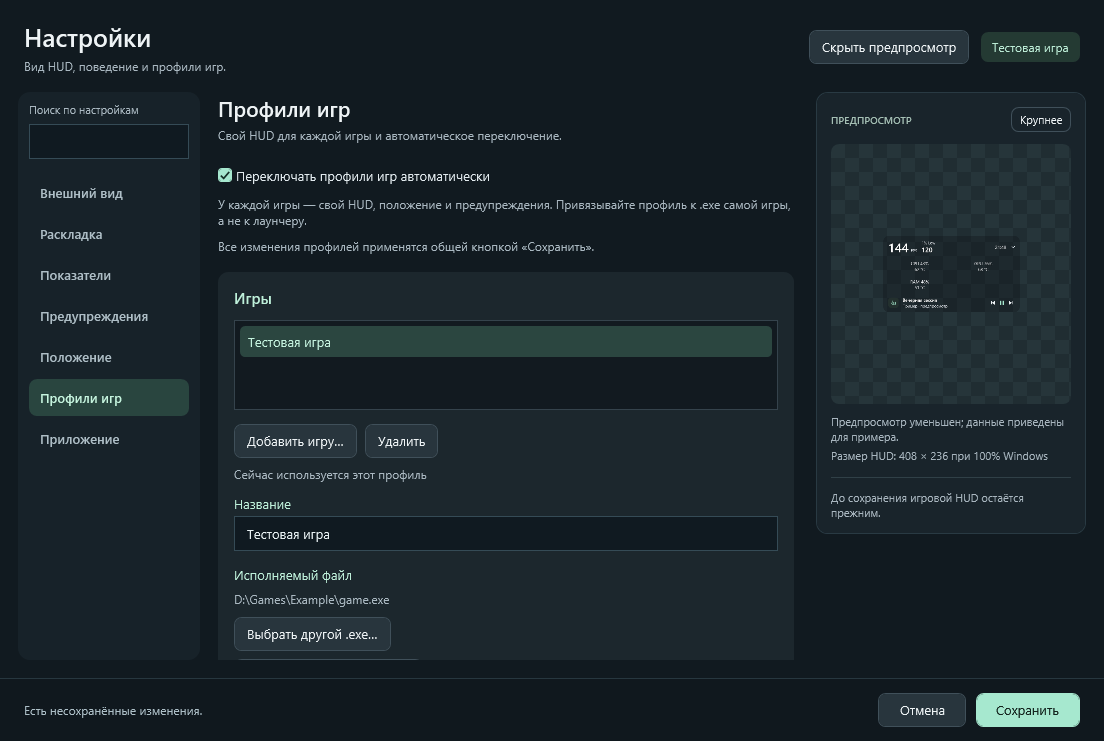
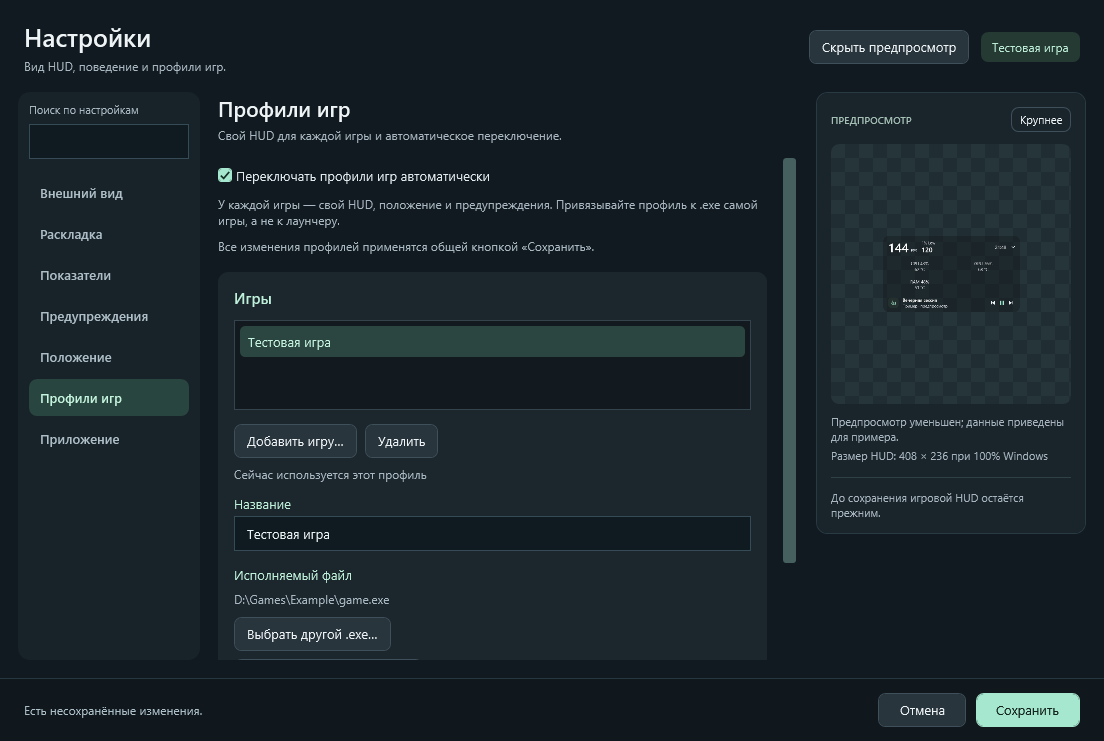
Fix scrolling in dynamic settings sections (v0.14.1)
Give new sections a shared scroll host and route mouse-wheel input to the page without changing slider or closed monitor-picker values. Preserve nested list scrolling with boundary fallback; cover all seven pages and future sections with routed-input regressions.

Changed region(s): [[0.6775, 0.2173, 0.7391, 0.776], [0.1848, 0.2794, 0.308, 0.3104]]

diff --git a/tests/SettingsNavigationUiChecks/Program.cs b/tests/SettingsNavigationUiChecks/Program.cs
@@ -145,8 +145,148 @@ internal static class Program
         finally { editor.Close(); }
 
         await VerifyExtensions();
+        await VerifyScrollRouting(context, widgets);
         Check(SamePreferences(preferences, RealPreferences()), "Every actual user preference file stays byte-identical");
     }
+
+    private static async Task VerifyScrollRouting(SettingsEditorContext context, ComponentSettings widgets)
+    {
+        var appearance = AppearanceSettings.Default with { Alerts = AlertSettings.Default with { Enabled = true } };
+        var editor = new HudEditorWindow(appearance, widgets, "Тестовая игра", MainWindow.RenderHudPreview, context);
+        try
+        {
+            Prepare(editor); editor.Width = 800; editor.Height = 420; editor.Show(); await Settle();
+            string before = DraftSnapshot(editor);
+            var cases = new[] { ("appearance", "SpacingSlider"), ("layout", "ResetLayoutButton"),
+                ("components", "BatteryCheckBox"), ("alerts", "StutterCountSlider"),
+                ("placement", "PlacementLockCheckBox"), ("profiles", "CopyProfileButton"), ("application", "SettingsVersionText") };
+            foreach (var (section, bottomName) in cases)
+            {
+                editor.SelectSection(section); await Settle();
+                var scroll = PageScroll(editor);
+                Check(scroll.ScrollableHeight > 0, "Short-window page has a scrollable viewport: " + section);
+                scroll.ScrollToTop(); await Settle();
+                Wheel((UIElement)scroll.Content, -120); await Settle();
+                Check(scroll.VerticalOffset > 0, "A routed wheel event moves the page: " + section);
+                await WheelToEnd(scroll);
+                var bottom = (FrameworkElement)(editor.FindSettingsControl(bottomName) ?? throw new InvalidOperationException("Missing bottom control " + bottomName));
+                InViewport(bottom, scroll, "Wheel scrolling reaches the last control: " + section);
+                if (section is "placement" or "profiles" or "application") Save(editor, "settings-" + section + "-short-bottom.png");
+            }
+            Check(DraftSnapshot(editor) == before, "Scrolling all seven sections does not alter any preference draft");
+
+            editor.SelectSection("appearance"); await Settle();
+            var appearanceScroll = PageScroll(editor);
+            var scale = Named<Slider>(editor, "ScaleSlider"); scale.BringIntoView(); await Settle();
+            double scaleBefore = scale.Value, offsetBefore = appearanceScroll.VerticalOffset;
+            Wheel(scale, -120); await Settle();
+            Check(scale.Value == scaleBefore && appearanceScroll.VerticalOffset > offsetBefore,
+                "Wheel over a HUD scale slider scrolls the page without changing the scale");
+
+            editor.SelectSection("placement"); await Settle();
+            var positionScroll = PageScroll(editor); positionScroll.ScrollToTop(); await Settle();
+            var monitor = (ComboBox)editor.FindSettingsControl("PlacementMonitorCombo")!;
+            object? monitorBefore = monitor.SelectedItem;
+            Wheel(monitor, -120); await Settle();
+            Check(ReferenceEquals(monitor.SelectedItem, monitorBefore) && positionScroll.VerticalOffset > 0,
+                "Wheel over a closed monitor picker scrolls the page without switching displays");
+
+            editor.SelectSection("profiles"); await Settle();
+            var profilesScroll = PageScroll(editor); profilesScroll.ScrollToTop(); await Settle();
+            var profileList = (ListBox)editor.FindSettingsControl("SettingsProfileList")!;
+            var inner = VisualScroll(profileList) ?? throw new InvalidOperationException("Profile list viewport is missing.");
+            Check(inner.ScrollableHeight == 0, "The one-profile list has no inner scroll range");
+            Wheel(WheelContent(inner), -120); await Settle();
+            Check(profilesScroll.VerticalOffset > 0, "Wheel over a short profile list falls through to the outer page");
+
+            FrameworkElement? last = null;
+            editor.RegisterSection(new SettingsSectionDefinition("long-scroll-fixture", "Длинный раздел", "", "", () =>
+            {
+                var panel = new StackPanel();
+                for (int index = 0; index < 40; index++) panel.Children.Add(last = new TextBlock { Text = "Строка " + index, Height = 28 });
+                return panel;
+            }));
+            editor.SelectSection("long-scroll-fixture"); await Settle();
+            var extensionScroll = PageScroll(editor);
+            Check(extensionScroll.ScrollableHeight > 0, "A registered raw page receives the same scroll host automatically");
+            await WheelToEnd(extensionScroll);
+            InViewport(last!, extensionScroll, "Wheel scrolling reaches the bottom of a lazy extension page");
+            Check(DraftSnapshot(editor) == before, "Wheel routing leaves slider, monitor, profile and startup settings unchanged");
+        }
+        finally { editor.Close(); }
+
+        var manyProfiles = new GameProfileSettings(true, Enumerable.Range(0, 40).Select(index => new GameProfile(
+            Guid.NewGuid().ToString("D"), "Игра " + index, @"D:\Games\Example\game" + index + ".exe", HudProfileSettings.Default)).ToArray());
+        var longContext = context with { Profiles = manyProfiles, ActiveProfileId = null };
+        var nestedEditor = new HudEditorWindow(appearance, widgets, "Общий HUD", MainWindow.RenderHudPreview, longContext);
+        try
+        {
+            Prepare(nestedEditor); nestedEditor.Width = 800; nestedEditor.Height = 420; nestedEditor.Show();
+            nestedEditor.SelectSection("profiles"); await Settle();
+            string before = DraftSnapshot(nestedEditor);
+            var outer = PageScroll(nestedEditor);
+            var list = (ListBox)nestedEditor.FindSettingsControl("SettingsProfileList")!;
+            var inner = VisualScroll(list) ?? throw new InvalidOperationException("Long profile list viewport is missing.");
+            Check(inner.ScrollableHeight > 0, "A long profile list has its own scroll range");
+            outer.ScrollToTop(); inner.ScrollToTop(); await Settle();
+            double outerBefore = outer.VerticalOffset;
+            Wheel(WheelContent(inner), -120); await Settle();
+            Check(inner.VerticalOffset > 0 && outer.VerticalOffset == outerBefore,
+                "An inner list consumes the wheel while it has room in that direction");
+            inner.ScrollToEnd(); outer.ScrollToTop(); await Settle();
+            Wheel(WheelContent(inner), -120); await Settle();
+            Check(outer.VerticalOffset > 0 && Math.Abs(inner.VerticalOffset - inner.ScrollableHeight) < .1,
+                "At the inner list bottom, downward wheel moves the outer page");
+            inner.ScrollToTop(); outer.ScrollToEnd(); await Settle();
+            outerBefore = outer.VerticalOffset;
+            Wheel(WheelContent(inner), 120); await Settle();
+            Check(inner.VerticalOffset == 0 && outer.VerticalOffset < outerBefore,
+                "At the inner list top, upward wheel moves the outer page");
+            Check(DraftSnapshot(nestedEditor) == before, "Nested wheel routing never changes the selected profile or its settings");
+        }
+        finally { nestedEditor.Close(); }
+    }
+
+    private static ScrollViewer PageScroll(HudEditorWindow editor)
+        => ((TabItem)Named<TabControl>(editor, "EditorTabs").SelectedItem).Content as ScrollViewer
+           ?? throw new InvalidOperationException("Selected page has no outer ScrollViewer: " + editor.SelectedSectionId);
+    private static ScrollViewer? VisualScroll(DependencyObject root)
+    {
+        if (root is ScrollViewer scroll) return scroll;
+        for (int index = 0; index < VisualTreeHelper.GetChildrenCount(root); index++)
+            if (VisualScroll(VisualTreeHelper.GetChild(root, index)) is { } found) return found;
+        return null;
+    }
+    private static UIElement WheelContent(ScrollViewer scroll)
+        => VisualDescendant<System.Windows.Controls.ScrollContentPresenter>(scroll) ?? (UIElement)scroll.Content;
+    private static T? VisualDescendant<T>(DependencyObject root) where T : DependencyObject
+    {
+        if (root is T match) return match;
+        for (int index = 0; index < VisualTreeHelper.GetChildrenCount(root); index++)
+            if (VisualDescendant<T>(VisualTreeHelper.GetChild(root, index)) is { } found) return found;
+        return null;
+    }
+    private static void Wheel(UIElement target, int delta)
+    {
+        var preview = new MouseWheelEventArgs(Mouse.PrimaryDevice, Environment.TickCount, delta) { RoutedEvent = Mouse.PreviewMouseWheelEvent };
+        target.RaiseEvent(preview);
+        if (!preview.Handled) target.RaiseEvent(new MouseWheelEventArgs(Mouse.PrimaryDevice, Environment.TickCount, delta) { RoutedEvent = Mouse.MouseWheelEvent });
+    }
+    private static async Task WheelToEnd(ScrollViewer scroll)
+    {
+        for (int batch = 0; batch < 30 && scroll.VerticalOffset < scroll.ScrollableHeight - .1; batch++)
+        {
+            for (int notch = 0; notch < 5; notch++) Wheel((UIElement)scroll.Content, -120);
+            await Settle();
+        }
+        Check(Math.Abs(scroll.VerticalOffset - scroll.ScrollableHeight) < .1, "Routed wheel reaches the page's actual bottom");
+    }
+    private static void InViewport(FrameworkElement element, ScrollViewer scroll, string message)
+    {
+        var bounds = element.TransformToAncestor(scroll).TransformBounds(new Rect(element.RenderSize));
+        Check(element.IsVisible && element.ActualHeight > 0 && bounds.Top >= -1 && bounds.Bottom <= scroll.ActualHeight + 1, message);
+    }
+    private static string DraftSnapshot(HudEditorWindow editor) => JsonSerializer.Serialize(new { editor.DraftAppearance, editor.DraftComponents, editor.DraftApplication });
 
     private static async Task VerifyExtensions()
     {

diff --git a/src/Luma.Island/HudEditorWindow.xaml.cs b/src/Luma.Island/HudEditorWindow.xaml.cs
@@ -26,6 +26,7 @@ public partial class HudEditorWindow : Window
     private readonly SettingsSectionRegistry _sections = new();
     private readonly ObservableCollection<SettingsSectionDefinition> _filteredSections = new();
     private readonly Dictionary<string, TabItem> _sectionTabs = new(StringComparer.OrdinalIgnoreCase);
+    private readonly HashSet<ScrollViewer> _sectionScrollHosts = new();
     private readonly SettingsApplicationPages? _applicationPages;
     private readonly SettingsEditorContext? _context;
     private readonly AppearanceSettings _initialAppearance;
@@ -414,7 +415,18 @@ public partial class HudEditorWindow : Window
         {
             var content = section.GetContent();
             TabItem tab = _sectionTabs[section.Id];
-            if (tab.Content is null) tab.Content = content;
+            if (tab.Content is null)
+                tab.Content = content is ScrollViewer ? content : new ScrollViewer
+                {
+                    Content = content,
+                    VerticalScrollBarVisibility = ScrollBarVisibility.Auto,
+                    HorizontalScrollBarVisibility = ScrollBarVisibility.Disabled,
+                    CanContentScroll = false,
+                    PanningMode = PanningMode.VerticalOnly,
+                    Padding = new Thickness(0, 0, 10, 0)
+                };
+            if (tab.Content is ScrollViewer scroll && _sectionScrollHosts.Add(scroll))
+                scroll.PreviewMouseWheel += OnSectionMouseWheel;
             _selectingNavigation = true;
             if (!_filteredSections.Contains(section)) { SettingsSearchBox.Text = string.Empty; ApplySearch(); }
             EditorTabs.SelectedItem = tab;
@@ -435,6 +447,29 @@ public partial class HudEditorWindow : Window
         }
         finally { _selectingNavigation = wasSelecting; }
     }
+
+    private void OnSectionMouseWheel(object sender, MouseWheelEventArgs e)
+    {
+        if (sender is not ScrollViewer outer || outer.ScrollableHeight <= 0 || e.Delta == 0) return;
+        for (DependencyObject? node = e.OriginalSource as DependencyObject; node is not null && node != outer; node = ScrollParent(node))
+        {
+            if (node is ComboBox { IsDropDownOpen: true }) return;
+            if (node is ScrollViewer inner && inner != outer && inner.ScrollableHeight > 0 &&
+                (e.Delta > 0 ? inner.VerticalOffset > 0 : inner.VerticalOffset < inner.ScrollableHeight)) return;
+        }
+        int lines = SystemParameters.WheelScrollLines;
+        if (lines < 0)
+        {
+            if (e.Delta < 0) outer.PageDown(); else outer.PageUp();
+        }
+        else if (lines > 0) outer.ScrollToVerticalOffset(outer.VerticalOffset - e.Delta / 120d * lines * 16);
+        e.Handled = true;
+    }
+
+    private static DependencyObject? ScrollParent(DependencyObject node)
+        => node is Visual or System.Windows.Media.Media3D.Visual3D
+            ? VisualTreeHelper.GetParent(node) ?? LogicalTreeHelper.GetParent(node)
+            : LogicalTreeHelper.GetParent(node);
 
     public IReadOnlyList<SettingsSectionDefinition> SearchSections(string? query)
     {

diff --git a/docs/architecture.md b/docs/architecture.md
@@ -20,7 +20,7 @@
 
 Редактор не запускает `App`, FrameView или сборщики в предпросмотре. Изменения живут в черновике до подтверждения; после закрытия освобождается дерево предпросмотра. Пока открыто окно, выбор игрового профиля приостановлен. Изменение раскладки не добавляет периодического таймера отрисовки. Маркер использует один таймер только для истечения уже активного состояния.
 
-Разделы регистрируются через `HudEditorWindow.RegisterSection`. `SettingsSectionRegistry` хранит порядок и индекс стабильных ID; поиск учитывает название, описание и ключевые слова. `SettingsSectionDefinition.GetContent` вызывает фабрику только при первом выборе, а `ReleaseContent` освобождает ресурсы созданной страницы при закрытии. Обработчики `CaptureDraft` и `Validate` участвуют в общем подтверждении. Внешние DLL или скрипты для регистрации не загружаются; стили настроек не меняют ресурсы HUD.
+Разделы регистрируются через `HudEditorWindow.RegisterSection`. `SettingsSectionRegistry` хранит порядок и индекс стабильных ID; поиск учитывает название, описание и ключевые слова. `SettingsSectionDefinition.GetContent` вызывает фабрику только при первом выборе, а `ReleaseContent` освобождает ресурсы созданной страницы при закрытии. Оболочка помещает содержимое в общий `ScrollViewer`; существующий корневой `ScrollViewer` страницы используется повторно. Обработчики `CaptureDraft` и `Validate` участвуют в общем подтверждении. Внешние DLL или скрипты для регистрации не загружаются; стили настроек не меняют ресурсы HUD.
 
 `SettingsCommitPlan.Create` нормализует и клонирует входные снимки без записи файлов. При сохранении активной игры её итоговый HUD объединяется с черновиком профилей до передачи в контроллер. С выключенной автоматикой текущий вид сохраняется также как общий. Если исходный активный профиль удалён, план возвращает исходный общий HUD, без переноса удалённого игрового черновика в обычные stores. Без исходного активного профиля HUD сохраняется как общий. Остальные привязки и их правки сохраняются во всех случаях. Пропуск кликов остаётся глобальным и исключается из игровых снимков.
 

diff --git a/docs/settings.md b/docs/settings.md
@@ -8,6 +8,8 @@
 
 Слева находится навигация. Поиск учитывает название, описание и ключевые слова раздела: например, `прозрачность`, `FPS`, `температура`, `экран`, `автозагрузка`. Поиск фильтрует разделы; переключение между ними сохраняет текущий черновик.
 
+Если содержимое не помещается, появляется вертикальная полоса прокрутки. Колёсико прокручивает страницу над полями и ползунками; список профилей прокручивается отдельно и передаёт прокрутку странице на своей границе.
+
 | Раздел | Что настраивается |
 |---|---|
 | Внешний вид | Стекло или матовый фон, прозрачность, компактность, общий масштаб, размер текста и интервалы |

diff --git a/CHANGELOG.md b/CHANGELOG.md
@@ -1,5 +1,11 @@
 # История изменений
 
+## 0.14.1 — 2026-11-05
+
+- Исправлена отсутствующая прокрутка в разделах «Положение», «Профили игр» и «Приложение».
+- Общий контейнер автоматически добавляет полосу прокрутки длинным новым разделам.
+- Колёсико прокручивает страницу над полями и ползунками; вложенный список передаёт прокрутку странице на своей границе.
+
 ## 0.14.0 — 2026-11-05
 
 - Контекстные меню HUD и трея сокращены до быстрых действий: показать/скрыть, раскрыть/свернуть, пропуск кликов, настройки и выход. Оба меню получили единое оформление.
